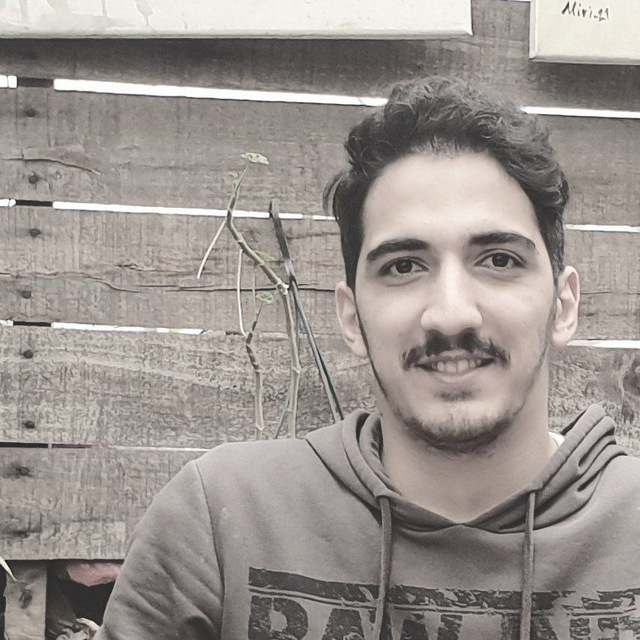
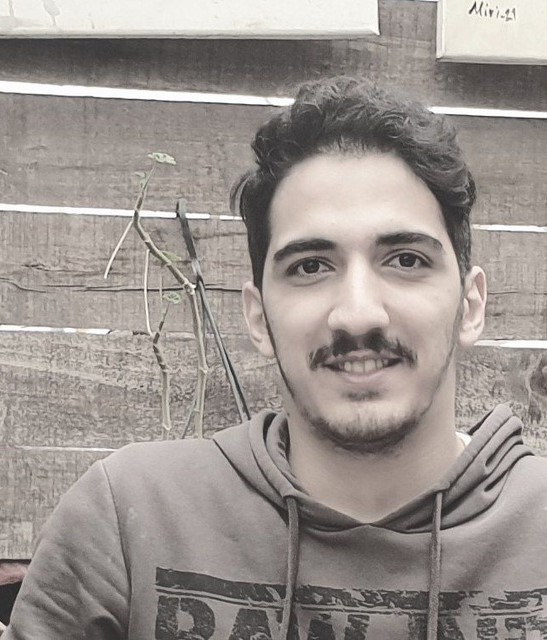
reserach page added!

diff --git a/research.html b/research.html
@@ -1,5 +1,5 @@
 <!DOCTYPE html>
-<htm>
+<html>
     <head>
         <meta name="viewport" content="width=device-width, initial-scale=1.0">
         <title>Research insights</title>
@@ -7,6 +7,24 @@
         <link rel="stylesheet" href="styles/research-style.css">
     </head>
     <body>
-        research insight!
+        <div class="left-column"></div>
+        
+        <div class="middle-column">
+            <div class="first-row">
+                <div class="neo4j-div">
+                    <div class="neo4j-img-div">
+                        <img src="imgs/2-neo4j-close.png" alt="">
+                    </div>
+                    <div class="neo4j-caption-div">
+                        <strong>Neo4j Graph Visualization</strong><br>This graph illustrates the relational structure of [specific dataset or concept] using Neo4j. Nodes represent [entities], and edges denote their relationships, following the approach outlined in [Paper Title]. This visualization supports the analysis by revealing key interconnections within the dataset.
+                    </div>
+                </div>
+            </div>
+            <div class="second-row">
+                2
+            </div>
+        </div>
+
+        <div class="right-column"></div>
     </body>
-</htm>
+</html>

diff --git a/styles/research-style.css b/styles/research-style.css
@@ -1,0 +1,46 @@
+div {
+    font-family: Arial, Helvetica, sans-serif;
+}
+body {
+    display: grid;
+    grid-template-columns: 150px auto 150px;
+    background-color: rgb(205, 205, 205);
+    color: black;
+}
+.middle-column {
+    display: grid;
+    grid-template-rows: repeat(2,auto);
+    background-color: white;
+    min-width: 1000px;
+    background-color:violet;
+}
+.first-row {
+    background-color: rgb(71, 71, 234);
+    display: flex;
+    justify-content: center;
+    align-items: center;
+    padding-bottom: 10px;
+    padding-top: 10px;
+}
+.second-row {
+    background-color:crimson;
+}
+.neo4j-div {
+    display: grid;
+    grid-template-rows: 550px 60px;
+    justify-content: center;
+    background-color: aquamarine;
+    width: 1150px;
+}
+.neo4j-img-div {
+    display: flex;
+    justify-content: center;
+    background-color: rgb(126, 10, 10);
+    width: 1150px;
+}
+.neo4j-caption-div {
+    background-color: tomato;
+    padding-left: 25px;
+    padding-right: 20px;
+    padding-top: 3px;
+}

diff --git a/index.html b/index.html
@@ -29,7 +29,7 @@
                 <div class="home">
                     <!-- photo -->
                     <div class="home-photo-div">
-                        <img src="imgs/me3.jpg" alt="photo of me" class="my-photo">
+                        <img src="imgs/me.jpg" alt="photo of me" class="my-photo">
                     </div>
                     <!-- info -->
                     <div class="home-info-div">
